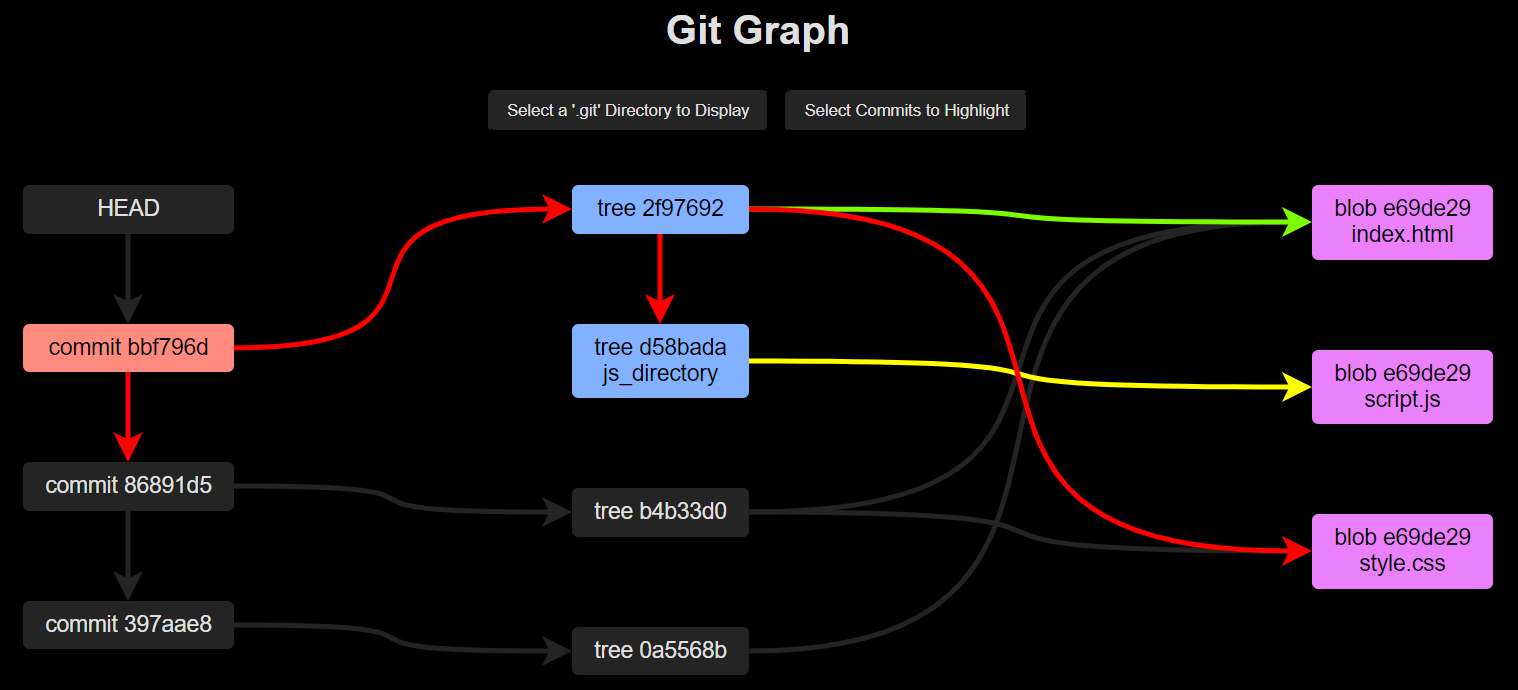
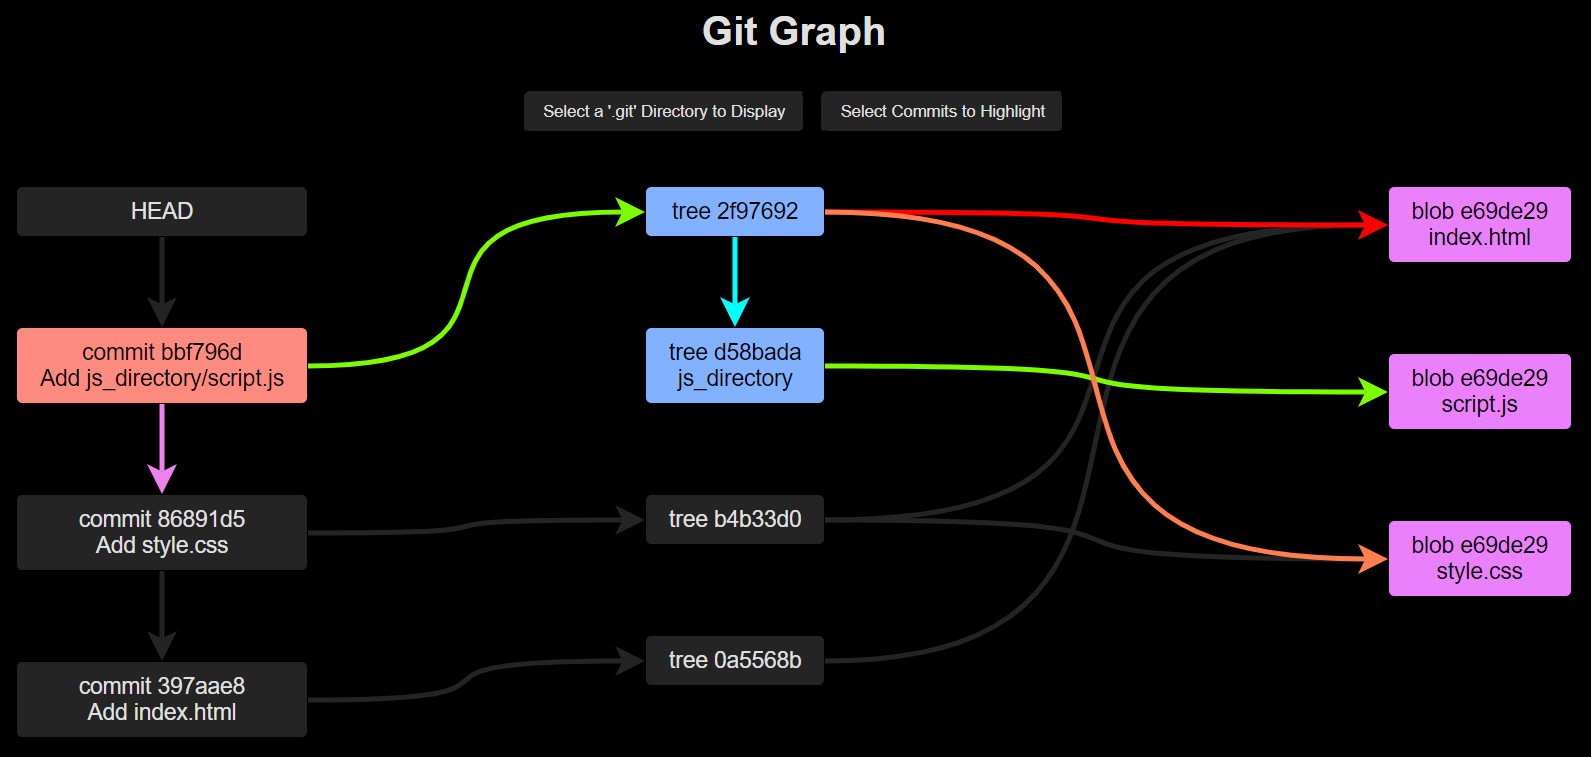
:sparkles: feat: Display commit messages (#6)

diff --git a/src/util/generateObjects.js b/src/util/generateObjects.js
@@ -21,6 +21,8 @@ async function getObjects(fileObjects) {
 		let commitContent = await getDecompressedFileBuffer(commitFilePath);
 		commitContent = commitContent.toString("utf-8").split("\n");
 
+		let commitMsg = getCommitMsg(commitContent);
+
 		const treeArr = commitContent[0].split(" ");
 		tree = treeArr[2];
 
@@ -30,7 +32,7 @@ async function getObjects(fileObjects) {
 		if (parentCommitArr[0] === "parent") parentCommit = parentCommitArr[1];
 		else parentCommit = "";
 
-		OBJECT_ARR.push({ commit, commitMsg: "", parentCommit, tree, blobs });
+		OBJECT_ARR.push({ commit, commitMsg, parentCommit, tree, blobs });
 
 		commit = parentCommit;
 	} while (parentCommit !== "");
@@ -183,6 +185,34 @@ async function readFile(path = "", readType = "") {
 		if (readType === "buffer") readFile.readAsArrayBuffer(fileArr[0]);
 		else if (readType === "binary") readFile.readAsBinaryString(fileArr[0]);
 	});
+}
+
+function getCommitMsg(commitObjContent = []) {
+	let i = 0;
+	let firstParent = commitObjContent[1].split(" ");
+	let secondParent = commitObjContent[2].split(" ");
+
+	if (firstParent[0] === "parent") {
+		i++;
+		if (secondParent[0] === "parent") i++;
+	}
+
+	i += 3;
+
+	let temp = commitObjContent[i].split(" ");
+	if (temp[0] === "gpgsig") {
+		let j = 0;
+		for (j = i; j < commitObjContent.length; j++) {
+			if (commitObjContent[j] === " -----END PGP SIGNATURE-----") {
+				break;
+			}
+		}
+		i = j + 2;
+	}
+
+	i++;
+
+	return commitObjContent[i];
 }
 
 async function getHeadFromPackedRefs(reqdRef = "") {

diff --git a/src/util/formatObjects.js b/src/util/formatObjects.js
@@ -10,7 +10,7 @@ function formatObjects(objectData = {}) {
 	for (let objKey in gitObjects) {
 		COMMITS.push({
 			hash: gitObjects[objKey].commit,
-			name: "",
+			name: gitObjects[objKey].commitMsg,
 			color: true
 		});
 

diff --git a/src/components/GitObject/GitObject.js b/src/components/GitObject/GitObject.js
@@ -12,7 +12,7 @@ const GitObject = ({ objectType, objId, hash, name, isToBeColored }) => {
 			{name && (
 				<>
 					<br />
-					{name}
+					{name.length <= 40 ? name : name.slice(0, 40) + "..."}
 				</>
 			)}
 		</div>
